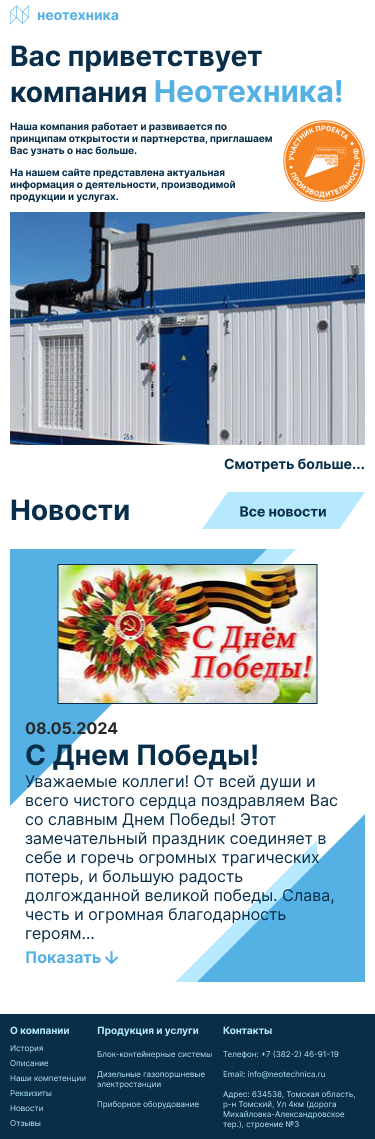
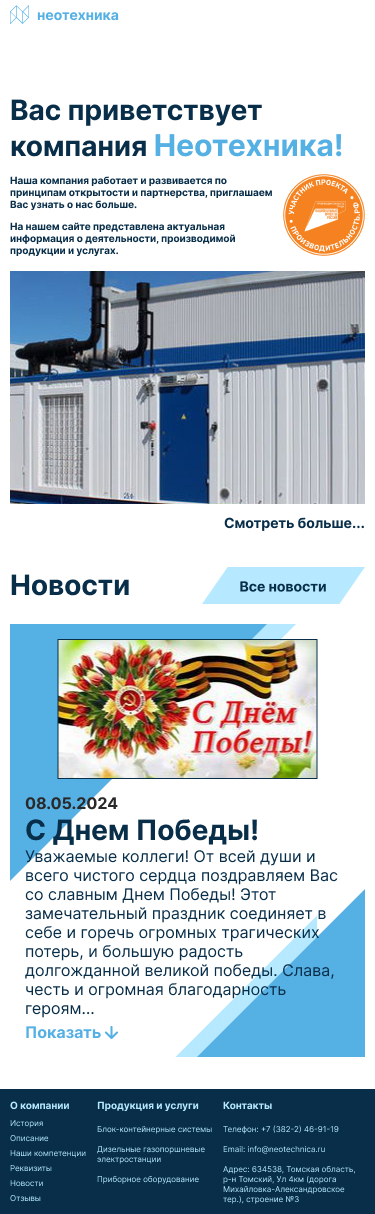
fixed some point and added animation for main elements

diff --git a/creatieve/src/app/components/contact.js b/creatieve/src/app/components/contact.js
@@ -1,9 +1,8 @@
 'use client'
 
-import { useState } from "react";
+import { useState, useEffect } from "react";
 import { BrightButton } from "./buttons";
-import { products, times, fields } from "./optData";
-import { host } from "./host";
+import { products, times, fields, showCheck, delta } from "./optData";
 import Link from "next/link";
 
 let reasons = [
@@ -26,6 +25,45 @@ let reasons = [
 ]
 
 export default function Contact () {
+    return (
+        <section id="5" className="shadow-section bg-white py-14 max-laptop:py-10 min-h-screen">
+            <div className="wrapper flex flex-col gap-y-14 max-laptop:gap-y-10 max-mobile:gap-y-[30px] items-center">
+                <ContactText />
+                <ContactForm />
+            </div>
+        </section>
+    )
+}
+
+function ContactText() {
+    let [isHidden, setIsHidden] = useState(true);
+        
+    useEffect(function() {
+        if (isHidden && window.innerHeight - delta > document.getElementById('contact-text').getBoundingClientRect().top) setIsHidden(false);
+        else if (isHidden && window.innerHeight - delta < document.getElementById('contact-text').getBoundingClientRect().top) {
+            let func = function (arg) {
+                if (window.innerHeight - delta > document.getElementById('contact-text').getBoundingClientRect().top) {
+                    setIsHidden(false)
+                    clearInterval(arg);
+                    return true
+                } else return false;
+            }
+            showCheck(func);
+        } else return
+    }, [isHidden]);
+
+    return (
+        <div id='contact-text' className={`flex gap-10 flex-row transition-all duration-700 ${isHidden && 'opacity-0 translate-y-6'} max-laptop:gap-[30xp] max-[862px]:gap-5 max-[740px]:flex-col items-center`}>
+            <p className="text-active-base font-base text-4xl max-laptop:text-[28px] max-[862px]:text-2xl max-mobile:text-xl"><span className="text-bright font-attention">Свяжитесь с нами</span>, если</p>
+            <ul className="flex flex-col gap-y-5 max-mobile:gap-y-3">
+                {reasons.map(reason => <Reason key={reason.id} reason={reason}/>)}
+            </ul>
+        </div>
+    )
+}
+
+function ContactForm() {
+    let [isHidden, setIsHidden] = useState(true);
     let [error, setError] = useState(null);
     let [isSuccess, setIsSuccess] = useState([false, null]);
     let [isPolicy, setIsPolicy] = useState(true);
@@ -69,41 +107,45 @@ export default function Contact () {
             setError('Ошибка отправки формы');
         }
     }
+        
+    useEffect(function() {
+        if (isHidden && window.innerHeight - delta > document.getElementById('contact-form').getBoundingClientRect().top) setIsHidden(false);
+        else if (isHidden && window.innerHeight - delta < document.getElementById('contact-form').getBoundingClientRect().top) {
+            let func = function (arg) {
+                if (window.innerHeight - delta > document.getElementById('contact-form').getBoundingClientRect().top) {
+                    setIsHidden(false)
+                    clearInterval(arg);
+                    return true
+                } else return false;
+            }
+            showCheck(func);
+        } else return
+    }, [isHidden]);
 
-    return (
-        <section id="5" className="shadow-section bg-white py-14 max-laptop:py-10 min-h-screen">
-            <div className="wrapper flex flex-col gap-y-14 max-laptop:gap-y-10 max-mobile:gap-y-[30px] items-center">
-                <div className="flex gap-10 flex-row max-laptop:gap-[30xp] max-[862px]:gap-5 max-[740px]:flex-col items-center">
-                    <p className="text-active-base font-base text-4xl max-laptop:text-[28px] max-[862px]:text-2xl max-mobile:text-xl"><span className="text-bright font-attention">Свяжитесь с нами</span>, если</p>
-                    <ul className="flex flex-col gap-y-5 max-mobile:gap-y-3">
-                        {reasons.map(reason => <Reason key={reason.id} reason={reason}/>)}
-                    </ul>
-                </div>
-                <div className="flex items-center gap-10 max-laptop:gap-5 flex-row max-tablet:flex-col w-full">
-                    <form id='orderCallForm' className="flex w-full flex-col items-start max-tablet:items-center gap-y-5" onSubmit={sendFormData}>
-                        {isSuccess[0] && <label className="text-landingfrom text-base max-laptop:text-sm max-tablet:text-xs">Вы заказали звонок на {isSuccess[1]}</label>}
-                        <div className="grid grid-cols-2 max-laptop:grid-cols-1 w-full gap-5 max-laptop:gap-2.5">
-                            <div className="flex flex-col gap-y-5 max-laptop:gap-y-2.5">
-                                {fields.map(field => <InputField field={field} key={field.id}/>)}
-                                {error != null && <label className="text-red-600 text-base max-laptop:text-sm">{error}</label>}
-                            </div>
-                            <textarea name="add" placeholder="Напишите, если есть, что дополнить" className="border-2 outline-none rounded-[10px] h-full min-h-[260px] max-small:min-h-[160px] px-5 max-mobile:px-4 py-4 max-mobile:py-3 border-base-color active:border-active-base focus:border-active-base placeholder:font-base"></textarea>
-                        </div>
-                        <div className="flex gap-2.5 items-center">
-                            <input type="checkbox" id="policy" name="policy" defaultChecked onChange={changePolicy} className="appearance-auto w-4 h-4"/>
-                            <label htmlFor='policy' className={`${policyErr && 'text-red-600'}`}>Ознакомлен(а) с <Link href={'https://st-152-fz.ru/index_polic.php?name=Николаенко%20Александр%20Иванович&site=creatieve.ru&email=nikol.alex06@mail.ru'} className={`underline`}>политикой конфиденциальности</Link> и принимаю условия обработки персональных данных</label>
-                        </div>
-                        <BrightButton text={'Заказать звонок'}/>
-                    </form>
-                    <div className="w-min max-tablet:w-full h-[400px] max-tablet:h-auto flex flex-col max-tablet:flex-row gap-2.5 items-center">
-                        <div className="h-full max-tablet:h-px rounded w-px max-tablet:w-full bg-active-base"></div>
-                        <p className="text-base max-laptop:text-sm max-tablet:text-xs font-base text-active-base">или</p>
-                        <div className="h-full max-tablet:h-px rounded w-px max-tablet:w-full bg-active-base"></div>
+    return(
+        <div id="contact-form" className={`flex items-center transition-all duration-700 ${isHidden && 'opacity-0 translate-y-6'} gap-10 max-laptop:gap-5 flex-row max-tablet:flex-col w-full`}>
+            <form id='orderCallForm' className="flex w-full flex-col items-start max-tablet:items-center gap-y-5" onSubmit={sendFormData}>
+                <div className="grid grid-cols-2 max-laptop:grid-cols-1 w-full gap-5 max-laptop:gap-2.5">
+                    <div className="flex flex-col gap-y-5 max-laptop:gap-y-2.5">
+                        {fields.map(field => <InputField field={field} key={field.id}/>)}
+                        {error != null && <label className="text-red-600 text-base max-laptop:text-sm">{error}</label>}
                     </div>
-                    <BrightButton link={"https://t.me/AliBabagg"} text={'Написать в Telegram'}/>
+                    <textarea name="add" placeholder="Напишите, если есть, что дополнить" className="border-2 outline-none rounded-[10px] h-full min-h-[260px] max-small:min-h-[160px] px-5 max-mobile:px-4 py-4 max-mobile:py-3 border-base-color active:border-active-base focus:border-active-base placeholder:font-base"></textarea>
                 </div>
+                <div className="flex gap-2.5 items-center">
+                    <input type="checkbox" id="policy" name="policy" defaultChecked onChange={changePolicy} className="appearance-auto w-4 h-4"/>
+                    <label htmlFor='policy' className={`${policyErr && 'text-red-600'}`}>Ознакомлен(а) с <Link href={'https://st-152-fz.ru/index_polic.php?name=Николаенко%20Александр%20Иванович&site=creatieve.ru&email=nikol.alex06@mail.ru'} className={`underline`}>политикой конфиденциальности</Link> и принимаю условия обработки персональных данных</label>
+                </div>
+                {isSuccess[0] && <label className="text-landingfrom text-base max-laptop:text-sm max-tablet:text-xs">Вы заказали звонок на {isSuccess[1]}</label>}
+                <BrightButton text={'Заказать звонок'}/>
+            </form>
+            <div className="w-min max-tablet:w-full h-[400px] max-tablet:h-auto flex flex-col max-tablet:flex-row gap-2.5 items-center">
+                <div className="h-full max-tablet:h-px rounded w-px max-tablet:w-full bg-active-base"></div>
+                <p className="text-base max-laptop:text-sm max-tablet:text-xs font-base text-active-base">или</p>
+                <div className="h-full max-tablet:h-px rounded w-px max-tablet:w-full bg-active-base"></div>
             </div>
-        </section>
+            <BrightButton link={"https://t.me/AliBabagg"} text={'Написать в Telegram'}/>
+        </div>
     )
 }
 

diff --git a/creatieve/src/app/components/products.js b/creatieve/src/app/components/products.js
@@ -3,11 +3,26 @@
 import { useEffect, useState } from "react";
 import Image from "next/image";
 import OrderButton from "./buttons";
-import { products } from "./optData";
+import { products, showCheck, delta } from "./optData";
 import Link from "next/link";
 
 export default function Products() {
     let [showId, setShowId] = useState(1);
+    let [isHidden, setIsHidden] = useState(true);
+
+    useEffect(function() {
+        if (isHidden && window.innerHeight - delta > document.getElementById('slideProd').getBoundingClientRect().top) setIsHidden(false);
+        else if (isHidden && window.innerHeight - delta < document.getElementById('slideProd').getBoundingClientRect().top) {
+            let func = function (arg) {
+                if (window.innerHeight - delta > document.getElementById('slideProd').getBoundingClientRect().top) {
+                    setIsHidden(false)
+                    clearInterval(arg);
+                    return true
+                } else return false;
+            }
+            showCheck(func);
+        } else return
+    }, [isHidden]);
 
     useEffect(() => {
         let slideProd = document.getElementById("slideProd");
@@ -43,7 +58,7 @@ export default function Products() {
                         </div>
                         {window.innerWidth >= 521 && <SlideButton changeId={setShowId} current={showId}/>}
                     </div>  
-                    <div id="slideProd" className="w-full overflow-x-hidden max-tablet:overflow-scroll relative">
+                    <div id="slideProd" className={`w-full transition-all duration-700 ${isHidden && 'opacity-0 -translate-x-10'} overflow-x-hidden max-tablet:overflow-scroll relative`}>
                         <ul id="blockLine" className="flex gap-x-5 w-max">
                             {products.map(product => <DescProductBlock product={product} key={product.id}/>)}
                             <div className="bg-white w-[3px] rounded"></div>
@@ -132,6 +147,22 @@ function DescProductBlock({product}) {
 }
 
 function ProductBlock({product, changer}) {
+    let [isHidden, setIsHidden] = useState(true);
+
+    useEffect(function() {
+        if (isHidden && window.innerHeight - delta > document.getElementById(product.id+'scrollButton').getBoundingClientRect().top) setIsHidden(false);
+        else if (isHidden && window.innerHeight - delta < document.getElementById(product.id+'scrollButton').getBoundingClientRect().top) {
+            let func = function (arg) {
+                if (window.innerHeight - delta > document.getElementById(product.id+'scrollButton').getBoundingClientRect().top) {
+                    setIsHidden(false)
+                    clearInterval(arg);
+                    return true
+                } else return false;
+            }
+            showCheck(func);
+        } else return
+    }, [isHidden, product.id]);
+
     function scroller() {
         changer(product.id);
         let block = document.getElementById('block').getBoundingClientRect();
@@ -143,7 +174,7 @@ function ProductBlock({product, changer}) {
     }
 
     return (
-        <button id={product.id+'scrollButton'} onClick={scroller} className={`productBlock text-left flex flex-col h-full gap-y-6 max-laptop:gap-y-5 max-tablet:gap-y-4 transition-all *:hover:text-white ${product.activeBg} cursor-pointer p-[25px] max-tablet:p-5 shadow-base rounded-[10px] ${product.id == 4 ? 'col-start-3 max-laptop:col-start-auto' : ''} col-span-2`}>
+        <button id={product.id+'scrollButton'} onClick={scroller} className={`productBlock text-left flex flex-col h-full gap-y-6 max-laptop:gap-y-5 max-tablet:gap-y-4 transition-all duration-700 ${isHidden && 'opacity-0 translate-y-6'} *:hover:text-white ${product.activeBg} cursor-pointer p-[25px] max-tablet:p-5 shadow-base rounded-[10px] ${product.id == 4 ? 'col-start-3 max-laptop:col-start-auto' : ''} col-span-2`}>
             <h4 className="text-active-base font-base text-2xl max-laptop:text-xl max-tablet:text-lg font-bold transition-all">{product.name}</h4>
             <p className="text-bright font-base text-base  max-laptop:text-sm max-tablet:text-xs transition-all">от <span className="text-inherit text-xl max-laptop:text-lg">{product.cost}</span></p>
             <p className="text-active-base font-base text-base max-desktop:text-sm max-tablet:text-xs transition-all">срок реализации от <span className="text-inherit text-xl max-desktop:text-lg">{product.time} дней</span></p>

diff --git a/creatieve/src/app/components/whywe.js b/creatieve/src/app/components/whywe.js
@@ -1,6 +1,7 @@
 'use client'
 
 import { useEffect, useState } from "react";
+import { showCheck, delta } from "./optData";
 
 let reasons = [
     {
@@ -79,9 +80,6 @@ export default function WhyWe() {
                 </div>
                 <h4 className="text-white text-3xl max-laptop:text-2xl max-tablet:text-xl font-base">Прозрачный процесс разработки</h4>
                 <ul className="relative flex flex-col gap-[30px] max-tablet:gap-5 items-start">
-                    {/* <div className="z-20 absolute overflow-hidden h-full">
-                        <canvas id="lineDash" className="h-full"></canvas>
-                    </div> */}
                     {stages.map(stage => <Stage key={stage.id} stage={stage} isShow={stage.id <= showId}/>)}
                 </ul>
             </div>
@@ -90,8 +88,24 @@ export default function WhyWe() {
 }
 
 function ReasonBlock({reason}) {
+    let [isHidden, setIsHidden] = useState(true);
+    
+    useEffect(function() {
+        if (isHidden && window.innerHeight - delta > document.getElementById(`reason${reason.id}`).getBoundingClientRect().top) setIsHidden(false);
+        else if (isHidden && window.innerHeight - delta < document.getElementById(`reason${reason.id}`).getBoundingClientRect().top) {
+            let func = function (arg) {
+                if (window.innerHeight - delta > document.getElementById(`reason${reason.id}`).getBoundingClientRect().top) {
+                    setIsHidden(false)
+                    clearInterval(arg);
+                    return true
+                } else return false;
+            }
+            showCheck(func);
+        } else return
+    }, [isHidden, reason.id]);
+
     return(
-        <div className={`p-[25px] max-mobile:p-5 bg-dark-base flex flex-col gap-y-10 max-laptop:gap-y-5 rounded-[10px] shadow-base col-span-1 max-laptop:col-span-2 ${reason.id == 3 && 'max-laptop:col-start-2'}`}>
+        <div id={`reason${reason.id}`} className={`p-[25px] max-mobile:p-5 bg-dark-base transition-all duration-700 ${isHidden && 'opacity-0 translate-y-6'} flex flex-col gap-y-10 max-laptop:gap-y-5 rounded-[10px] shadow-base col-span-1 max-laptop:col-span-2 ${reason.id == 3 && 'max-laptop:col-start-2'}`}>
             <div className="flex items-start gap-2">
                 <span className="text-white text-3xl max-laptop:text-2xl max-tablet:text-xl font-base">{reason.id}.</span>
                 <h4 className="text-white text-3xl max-laptop:text-2xl max-tablet:text-xl font-base">{reason.title}</h4>
@@ -103,7 +117,7 @@ function ReasonBlock({reason}) {
 
 function Stage({stage, isShow}) {
     return (
-        <li id={'stage' + stage.id} className={`trasition-all duration-1000 ${!isShow && '-translate-x-1/2 opacity-0'} relative z-30 flex gap-14 max-laptop:gap-5 items-center max-mobile:w-full`}>
+        <li id={'stage' + stage.id} className={`trasition-all duration-700 ${!isShow && '-translate-x-1/3 opacity-0'} relative z-30 flex gap-14 max-laptop:gap-5 items-center max-mobile:w-full`}>
             <div className="flex justify-center items-center w-[70px] max-laptop:w-[60px] max-mobile:w-[50px] min-w-[50px] mobile:min-w-[60px] laptop:min-w-[70px] h-[70px] max-laptop:h-[60px] max-mobile:h-[50px] min-h-[50px] mobile:min-h-[60px] laptop:min-h-[70px] rounded-full bg-bright">
                 <span className="text-white font-base text-4xl max-laptop:text-3xl max-tablet:text-2xl">{stage.id}</span>
             </div>

diff --git a/creatieve/src/app/components/portfolio.js b/creatieve/src/app/components/portfolio.js
@@ -5,6 +5,8 @@ import urlImgMob2 from '../../../public/Profile page.jpg';
 import urlImgDesk3 from '../../../public/Main page 2 variant.jpg';
 import urlImgMob3 from '../../../public/iPhone 8 - 1.jpg';
 import Image from 'next/image';
+import { useEffect, useState } from 'react';
+import { showCheck, delta } from './optData';
 
 let works = [
     {
@@ -50,8 +52,24 @@ export default function Portfolio() {
 }
 
 function Work({work}) {
+    let [isHidden, setIsHidden] = useState(true);
+
+    useEffect(function() {
+        if (isHidden && window.innerHeight - delta > document.getElementById(`work${work.id}`).getBoundingClientRect().top) setIsHidden(false);
+        else if (isHidden && window.innerHeight - delta < document.getElementById(`work${work.id}`).getBoundingClientRect().top) {
+            let func = function (arg) {
+                if (window.innerHeight - delta > document.getElementById(`work${work.id}`).getBoundingClientRect().top) {
+                    setIsHidden(false);
+                    clearInterval(arg);
+                    return true
+                } else return false;
+            }
+            showCheck(func);
+        } else return
+    }, [isHidden, work.id]);
+
     return (
-        <li className={`flex ${work.isReverse && 'flex-row-reverse'} max-laptop:flex-col-reverse gap-0 max-laptop:gap-5 items-center w-full`}>
+        <li id={`work${work.id}`} className={`flex ${work.isReverse && 'flex-row-reverse'} transition-all duration-700 ${isHidden && 'opacity-0 translate-y-6'} max-laptop:flex-col-reverse gap-0 max-laptop:gap-5 items-center w-full`}>
             <div className="w-1/2 max-laptop:w-full flex gap-5 max-mobile:gap-2.5 max-laptop:max-w-[673px]">
                 <div className="w-[492px] h-[350px] max-mobile:h-[268px] max-[480px]:h-[227px] max-small:h-[186px] overflow-y-scroll rounded-[10px]">
                     <Image alt={work.title} className="w-full h-auto" src={work.urlImgDesk} />

diff --git a/creatieve/src/app/components/main.js b/creatieve/src/app/components/main.js
@@ -1,12 +1,8 @@
 'use client'
 
-// import Header from "./components/header";
 import About from "./about";
-// import Products from "./components/products";
-// import WhyWe from "./components/whywe";
 import Portfolio from "./portfolio";
 import Contact from "./contact";
-// import Footer from "./components/footer";
 import dynamic from "next/dynamic";
 
 const DynamicHeader = dynamic(
@@ -33,19 +29,12 @@ export default function Main() {
     return (
     <>
         <DynamicHeader/>
-        {/* <Header /> */}
-        {/* <ClientComponent name={'about'}/> */}
         <About />
         <DynamicProducts/>
-        {/* <Products /> */}
         <DynamicWhyWe/>
-        {/* <WhyWe /> */}
-        {/* <ClientComponent name={'portfolio'}/> */}
         <Portfolio />
-        {/* <ClientComponent name={'contact'}/> */}
         <Contact />
         <DynamicFooter/>
-        {/* <Footer /> */}
     </>
     )
 }

diff --git a/creatieve/src/app/components/optData.js b/creatieve/src/app/components/optData.js
@@ -1,3 +1,5 @@
+export const delta = 100
+
 export const sectionsId = [
     {
         id: 1,
@@ -281,3 +283,9 @@ export const fields = [
         placeholder: 'Ваш номер телефона'
     }
 ];
+
+export function showCheck(func) {
+    let interval = setInterval(function (){
+        if (func()) clearInterval(interval);
+    }, 100);
+}
